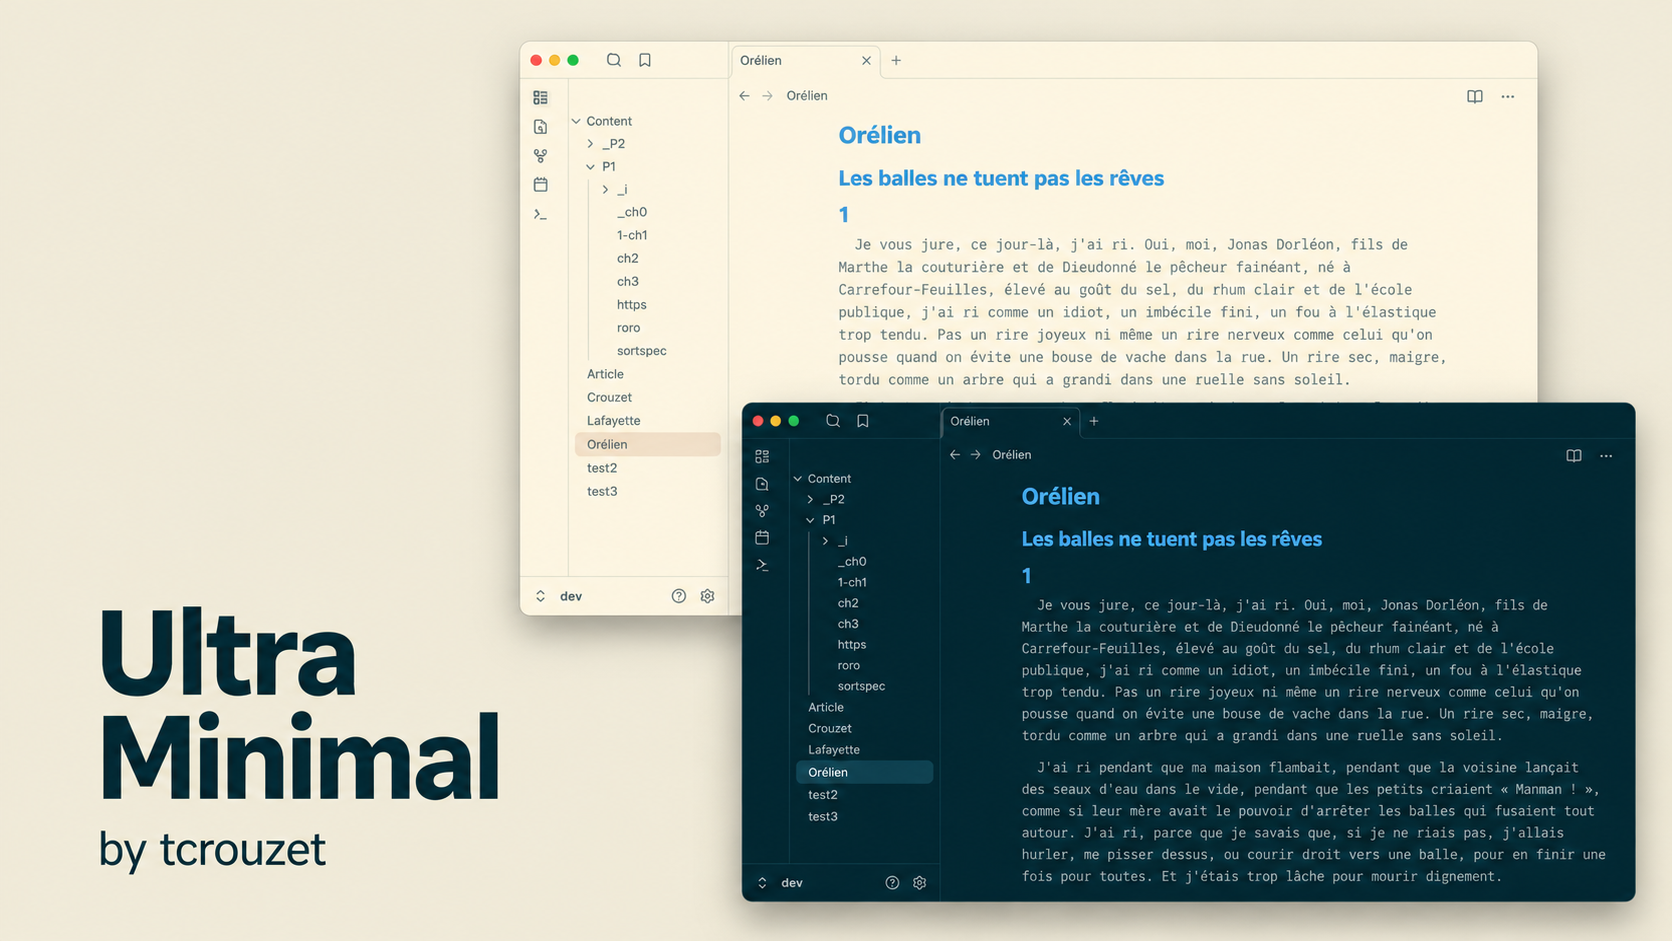
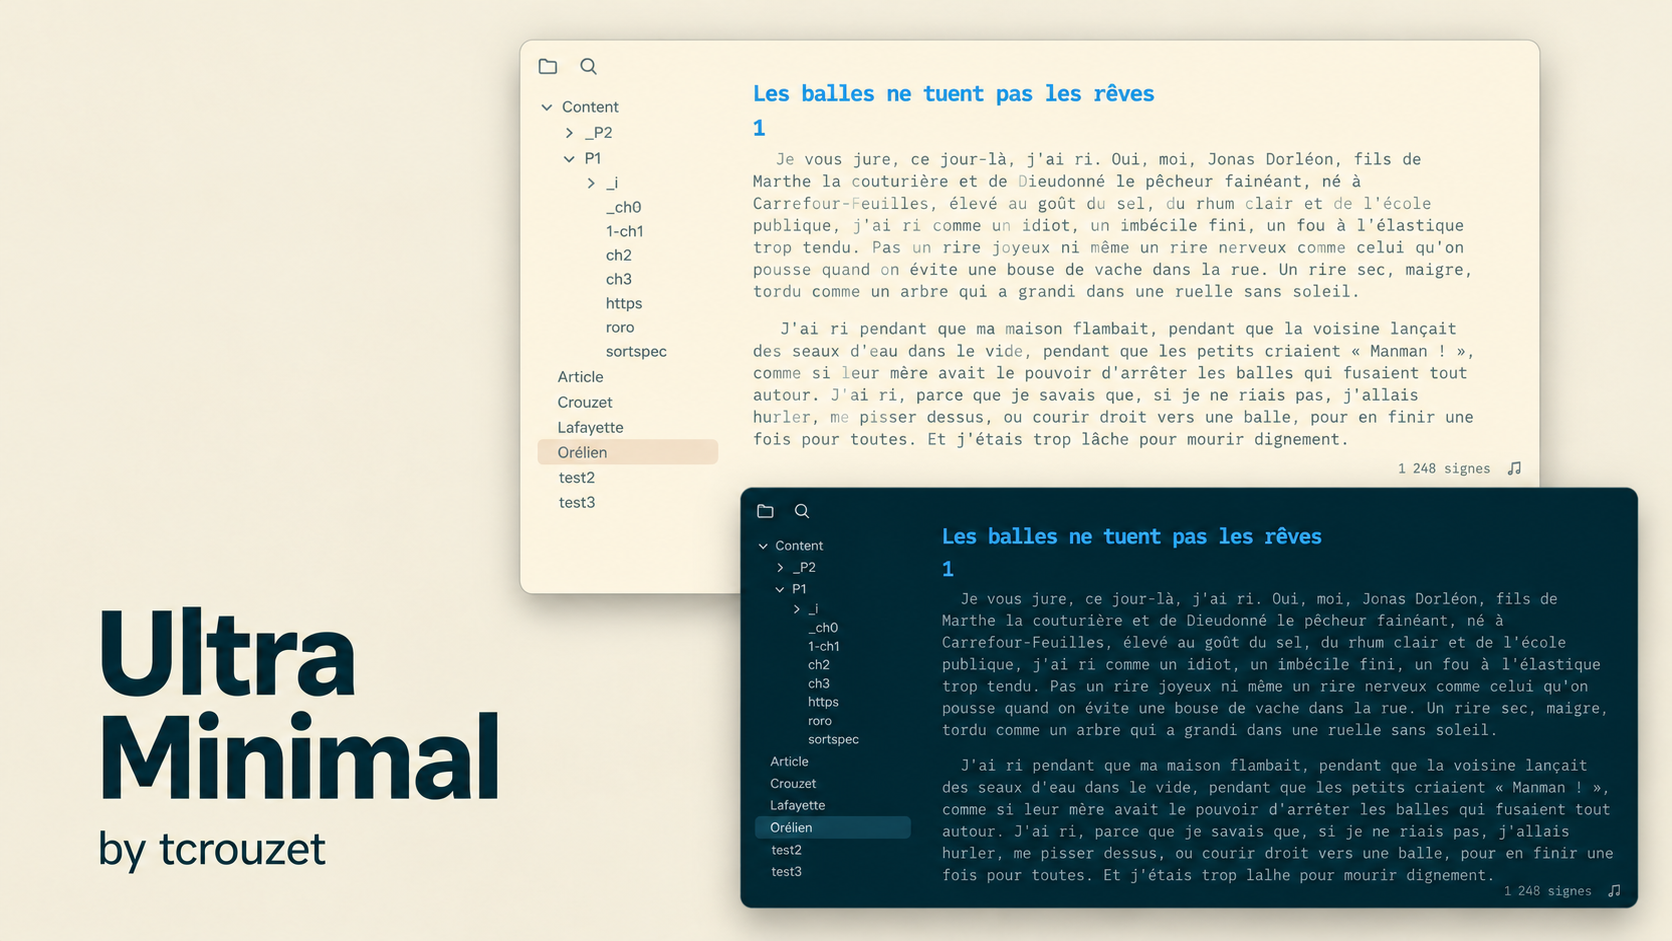
Release 0.0.25

diff --git a/README.md b/README.md
@@ -35,6 +35,10 @@ The ribbon and right sidebar overlay the workspace without moving the text. They
 
 Edge reveal requires the ribbon to be enabled and the right sidebar to be expanded in Obsidian. If either has been closed through Obsidian's own controls, restore it from the command palette first. The status bar, including plugin controls such as Finition's navigation and counters, remains visible.
 
+![Ultra Minimal: pointer revealing the ribbon and right sidebar in light and dark modes](doc/interface.gif)
+
+Animated demonstration rendered with the theme's CSS: a 750 px text column that stays in place while the edge panels appear.
+
 ## Edit and build
 
 Requires Node.js ≥ 24.12.0 and npm. No dependencies or package installation are needed.
